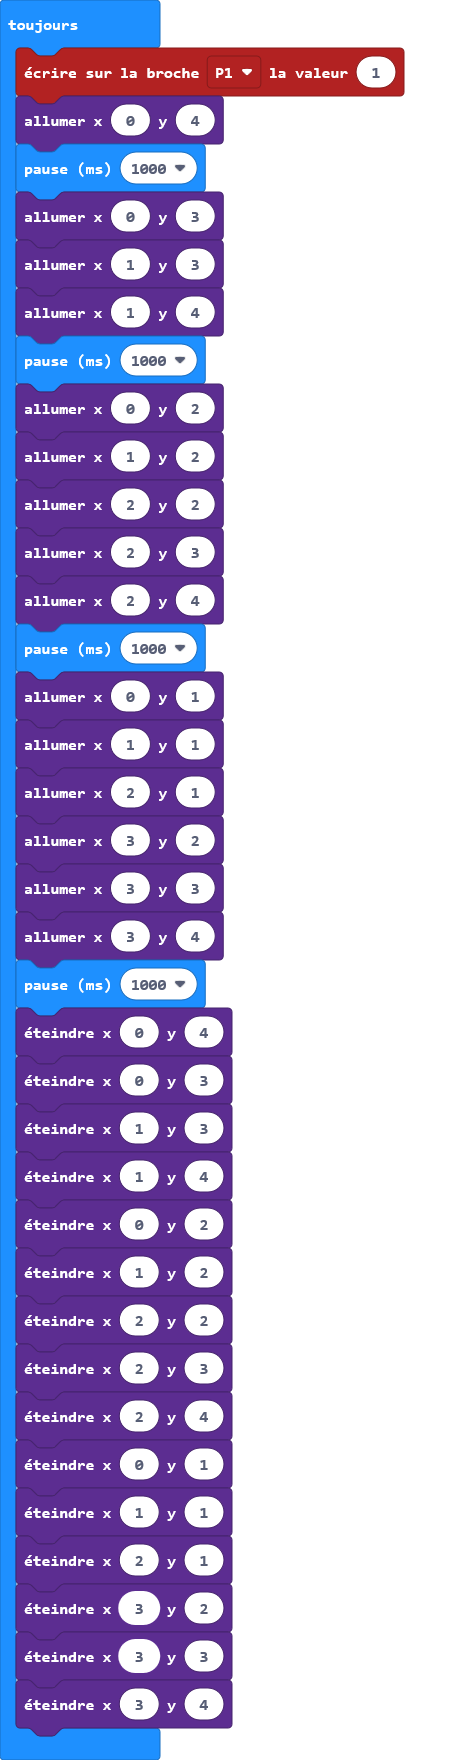
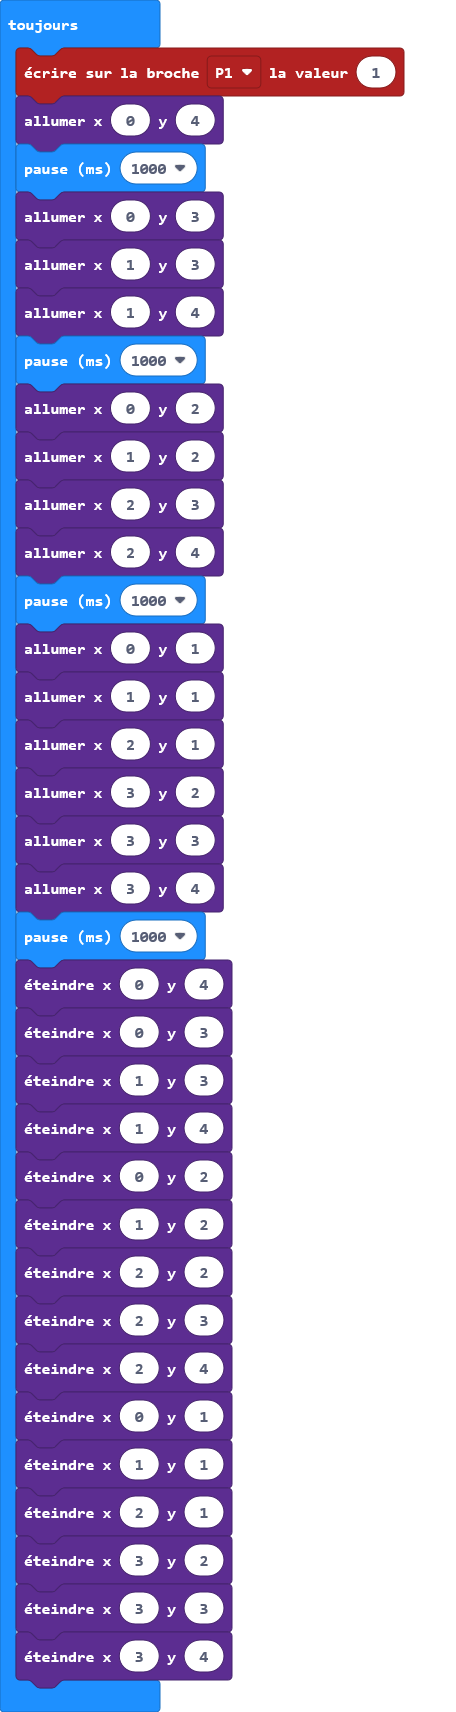
Mise à jour pxt.json, main.blocks, main.ts

Changed region(s): [[0.0307, 0.0, 0.5526, 0.9907], [0.5833, 0.031, 0.8904, 0.0619]]

diff --git a/main.ts b/main.ts
@@ -8,7 +8,6 @@ basic.forever(function () {
     basic.pause(1000)
     led.plot(0, 2)
     led.plot(1, 2)
-    led.plot(2, 2)
     led.plot(2, 3)
     led.plot(2, 4)
     basic.pause(1000)
